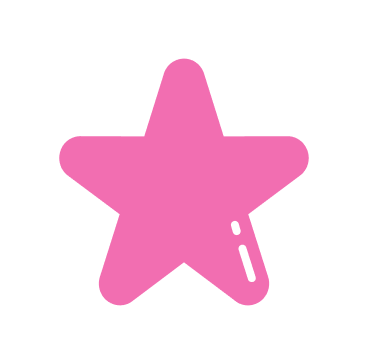
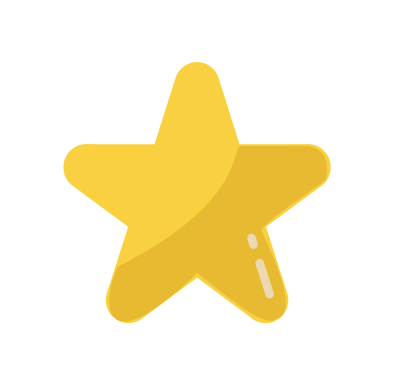
new perfil

Changed region(s): [[0.1495, 0.1511, 0.837, 0.8462]]

diff --git a/src/components/PerfilTela/CardStatus.tsx b/src/components/PerfilTela/CardStatus.tsx
@@ -49,7 +49,7 @@ export default function CardStatus({status, titulo, imageStatus, statusNumber,co
                             if (snapshot.exists()) {
                               const dadosUsuario = snapshot.data();
 
-                              if(status == "Total: "){
+                              if(imageStatus == 'oba'){
                             
                               
                               setStatusNumberr(dadosUsuario.questO);
@@ -57,13 +57,17 @@ export default function CardStatus({status, titulo, imageStatus, statusNumber,co
                               console.log('Dados atualizados:', statusNumber);
                               console.log(dadosUsuario.questO)
                               console.log(statusNumberr)
-                              }else if(status == "Nível: "){
+                              }else if(imageStatus == 'planet'){
                                
                                 setStatusNumberr(dadosUsuario.nivelJ + 1);
                                 
                                 console.log('Dados atualizados:', statusNumber);
                                 console.log(dadosUsuario.nivelJ);
                                 console.log(statusNumberr)
+                              }
+                              else if (imageStatus == 'star'){
+                                setStatusNumberr(dadosUsuario.stars);
+
                               }
                             } else {
                               console.log('Documento não encontrado');

diff --git a/src/views/Tab/Perfil.tsx b/src/views/Tab/Perfil.tsx
@@ -131,10 +131,14 @@ export default function Perfil({navigation} : any ){
               
                     
                 <View style = {styles.cardNiveis2}>
-
+                  <ScrollView
+                    showsVerticalScrollIndicator = {false}
+                    contentContainerStyle = {{gap: 30, paddingBottom: 20}}
+                  > 
                     {dadosPerfil.map((carac, index) => (
                         <CardStatus key={index} {...carac} />
                     ))}  
+                    </ScrollView>
                   </View>  
 
                   
@@ -155,11 +159,11 @@ const styles = StyleSheet.create({
     cardNiveis2:{
         position: "absolute",
         alignSelf: "center",
-        bottom: 30,
+        bottom: 10,
         width: "100%",
         height:"50%",
         gap: 30,
-       
+        
     
 
     },

diff --git a/src/dados/PerfilProps.tsx b/src/dados/PerfilProps.tsx
@@ -3,10 +3,11 @@ import { Svg } from "react-native-svg";
 
 import star from "../images/star.png";
 import planet from "../images/planet.png";
-
+import oba from "../images/ObaIm.png";
 export const imageMapping : any = {
   star: star,
   planet: planet,
+  oba: oba, 
 };
 
 
@@ -19,12 +20,22 @@ type statsProps = {
    
   };
 export const dadosPerfil: statsProps[] = [
+   
+  {
+    titulo: "Quantidade de estrelas",
+    status: "Total: ",
+    imageStatus: 'star',
+    statusNumber: 0,
+    cor: "#F9D040"
+
+
+   },
     {
      titulo: "Questões Resolvidas",
      status: "Total: ",
-     imageStatus: 'star',
+     imageStatus: 'oba',
      statusNumber: 0,
-     cor: "#F26EB1"
+     cor: "#906AAF"
 
 
     },

diff --git a/src/components/CadastroTela/CadForm/CardFormCad.tsx b/src/components/CadastroTela/CadForm/CardFormCad.tsx
@@ -96,6 +96,8 @@ export default function CardFormCad({ style, navigation, mostrarImagem } : CardF
                   profileImage: "../../images/Perfil.png",
                   questO: 0,
                   nivelJ: 0,
+                  stars: 0,
+                  
                 }); 
                 await updateProfile(user, {
                   displayName: name,
